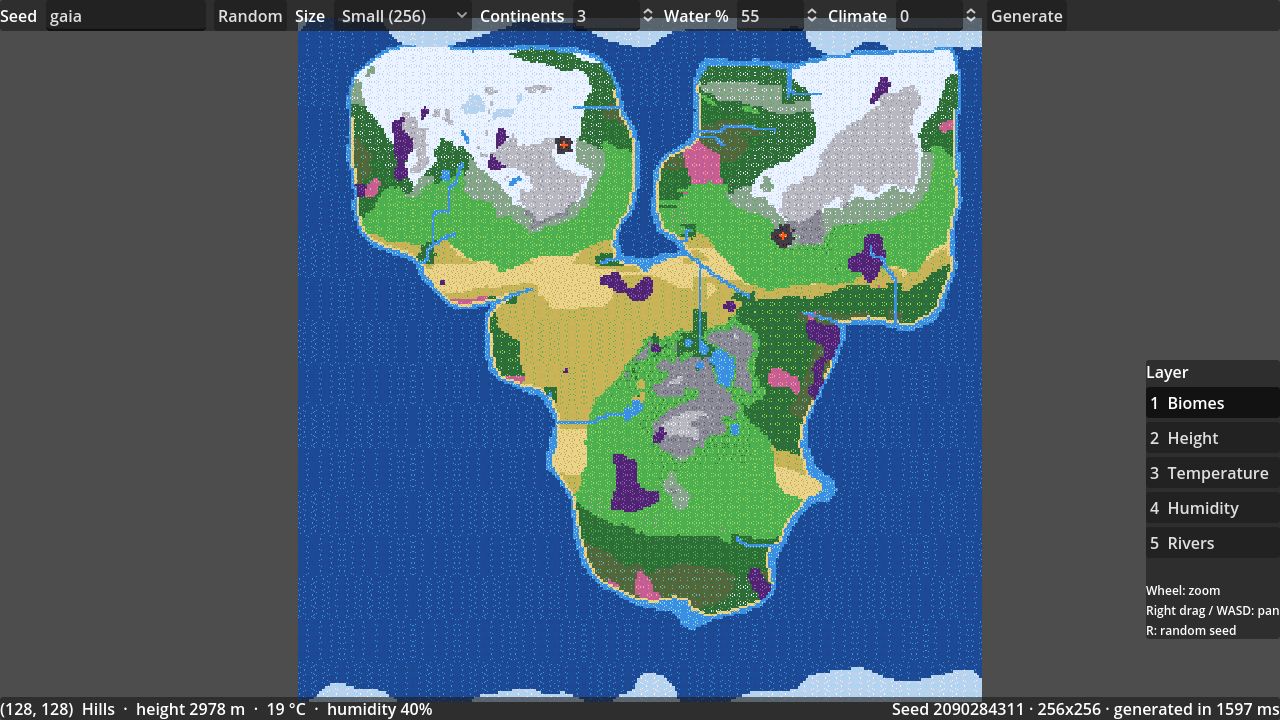
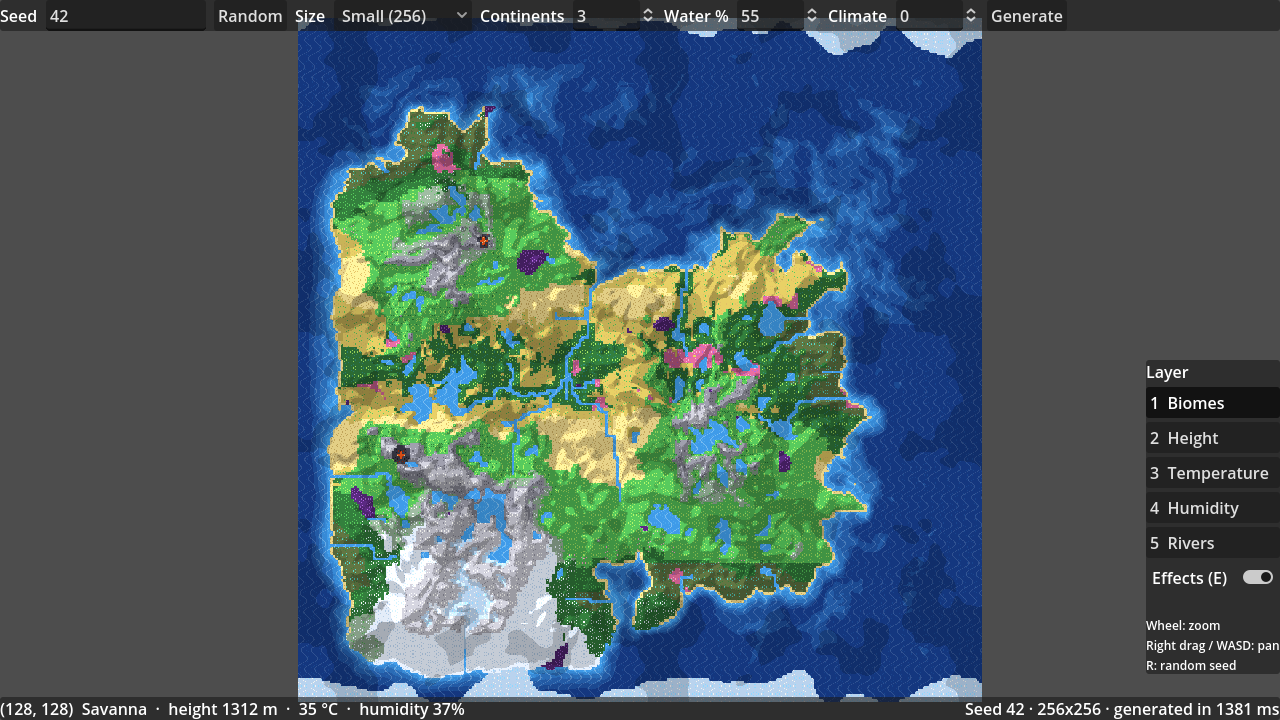
Add map shader and rougher coastlines
The map shader lights the relief in three crisp bands, colours water
by depth with moving wave crests and shore foam, and drifts cloud
shadows; it works per art pixel so the map stays pixel art (toggle: E).
Coasts get a second, finer warp and detail noise, giving capes, bays
and islets.

Claude-Session: https://claude.ai/code/session_01GoyuuhY9JrMPE9JVSkrvu8

diff --git a/README.md b/README.md
@@ -10,6 +10,8 @@ The twist: every people, monster species and force of nature (forest, volcano, o
 
 ![A generated world](docs/images/world_0.1.png)
 
+A map shader adds relief lighting, depth-coloured animated water, shore foam and drifting cloud shadows (toggle with E).
+
 Every world is generated from a seed: continents, mountains, climate (latitude, altitude, winds and rain shadows), rivers and lakes, and 21 biomes, including volcanoes, mushroom lands and cursed lands.
 
 ## Running the game
@@ -27,6 +29,7 @@ Controls:
 | Pan | right or middle drag, WASD, arrow keys |
 | New random world | R or the **Random** button |
 | Map layers | 1 Biomes · 2 Height · 3 Temperature · 4 Humidity · 5 Rivers |
+| Effects on / off | E |
 | Tile info | hover the map (bottom bar) |
 
 Type any word or number as the seed: the same seed and settings always give the same world.
@@ -38,6 +41,7 @@ Type any word or number as the seed: the same seed and settings always give the 
 | `scripts/world/` | world settings, data and the generator (shape → climate → hydrology → biomes) |
 | `scripts/render/` | map renderer (tiles and data layers) |
 | `scripts/ui/` | camera and HUD |
+| `shaders/` | map shader (relief, water, clouds) |
 | `scripts/core/` | seeded random streams, priority queue |
 | `scripts/generated/` | files written by `art/sprites.py`, do not edit |
 | `assets/tiles/` | terrain atlas used by the game |
